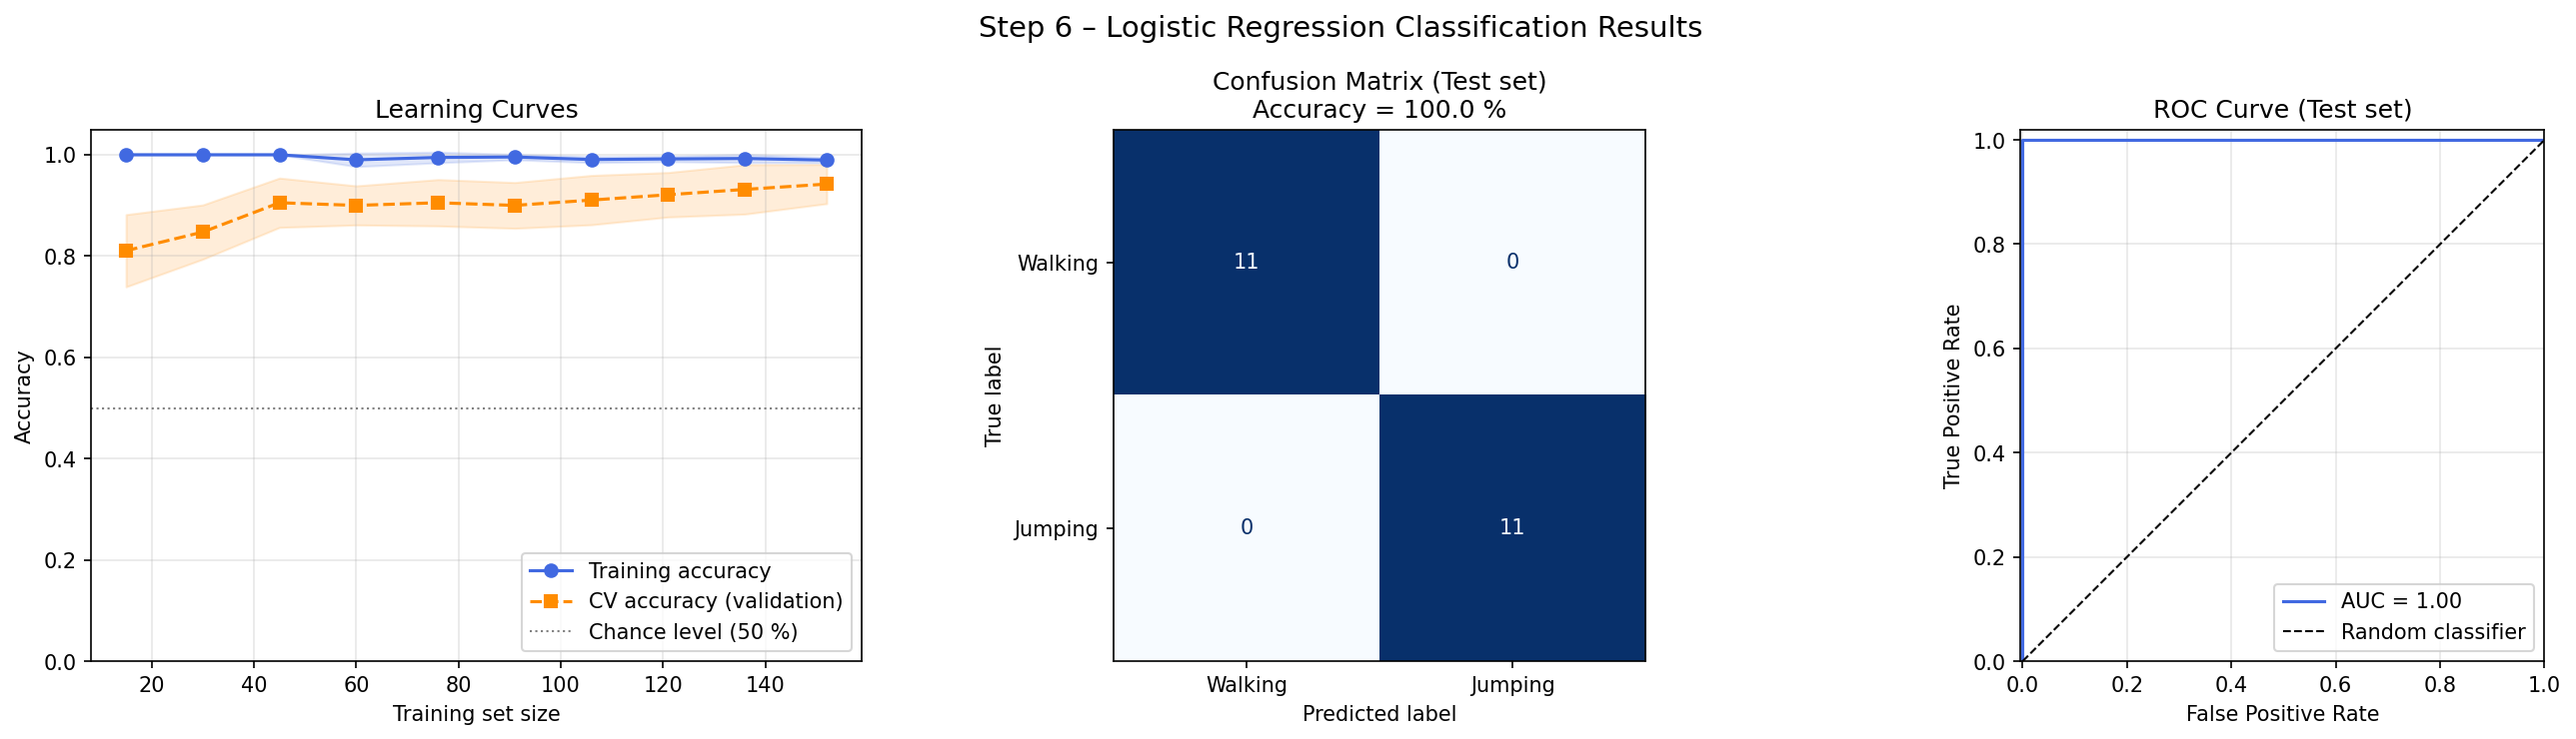
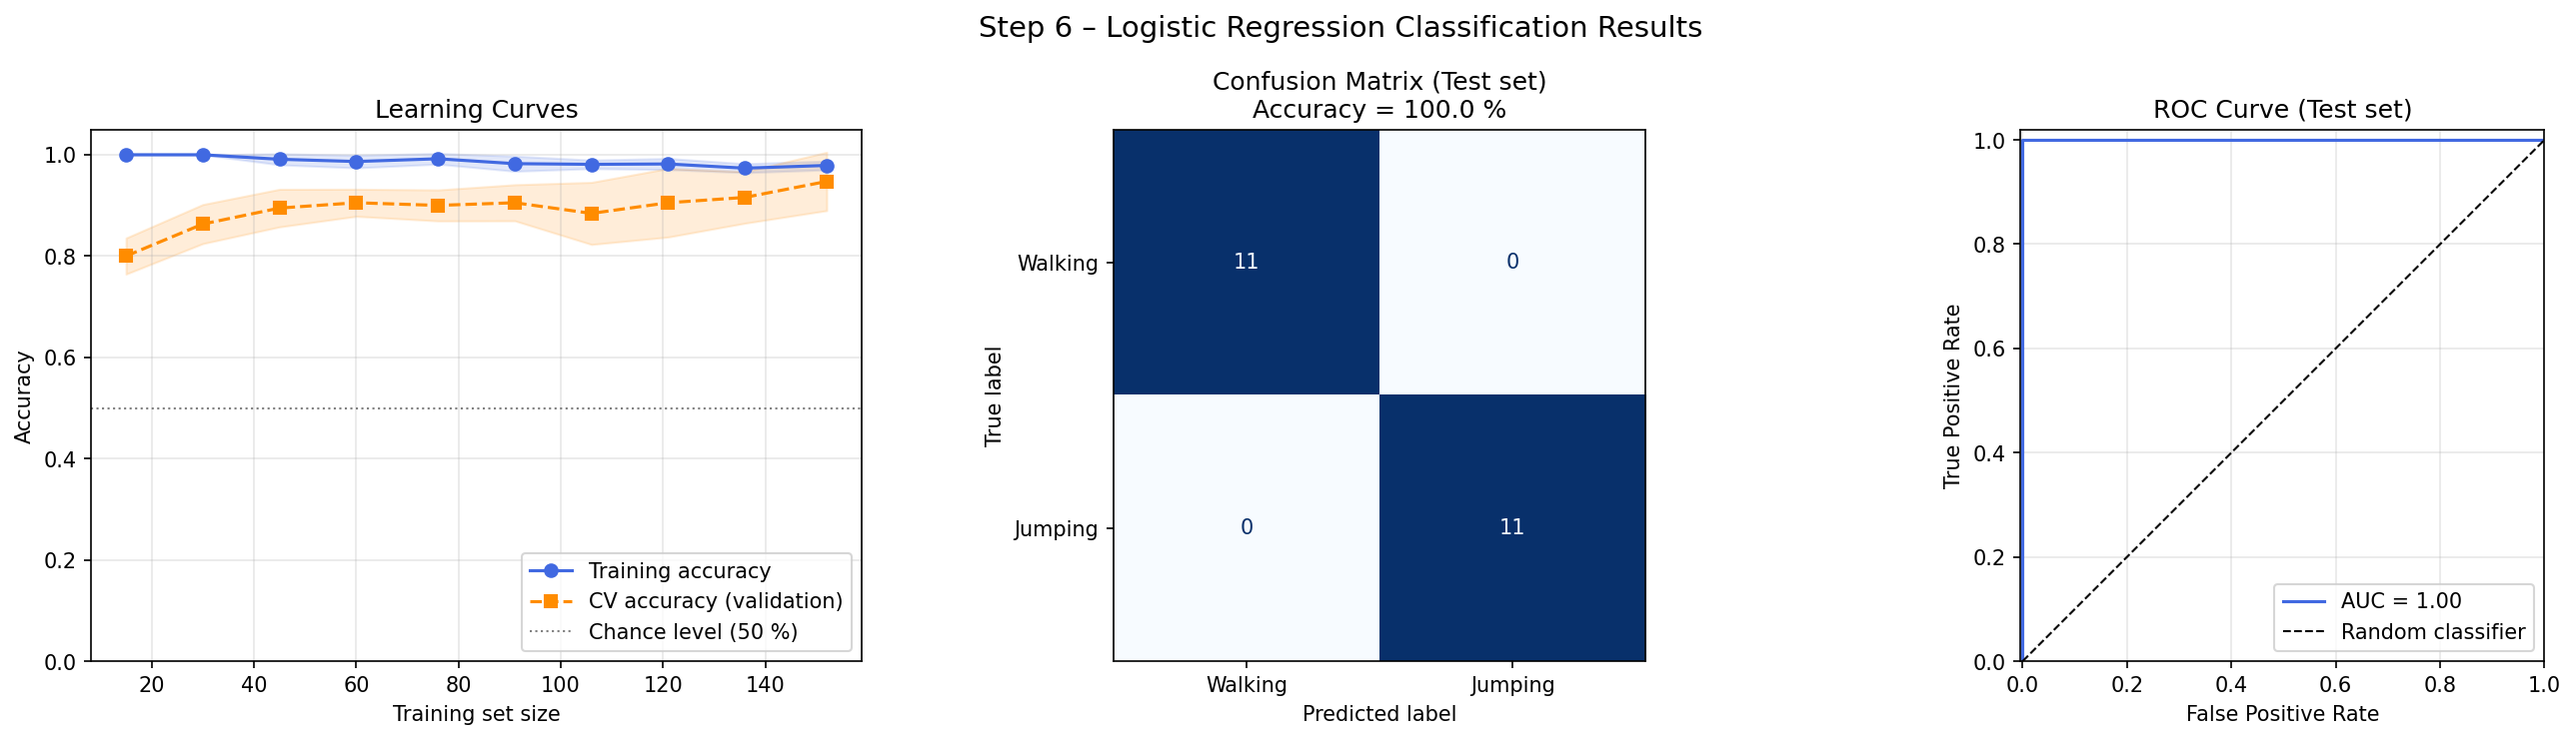
Fixed regression model by not including absolute acc in training

Changed region(s): [[0.031, 0.1865, 0.3415, 0.4041]]

diff --git a/featureExtraction.py b/featureExtraction.py
@@ -1,7 +1,9 @@
 import pandas as pd
 import numpy as np
 
-# Extracts 10+ features from an inputted data-frame
+## Z-score normalization is performed in the logisticRegression file, using standardScalar()
+
+# Extracts 10+ features from x, y, and z accelerations from the inputted Dataframe
 # Treats the inputted df as a single window to extract data from
 # features extracted: max, min, range, mean, median, variance, skewness, kurtosis, std, mode
 def extract_features(input_df):
@@ -9,22 +11,18 @@ def extract_features(input_df):
         'Linear Acceleration x (m/s^2)',
         'Linear Acceleration y (m/s^2)',
         'Linear Acceleration z (m/s^2)',
-        'Absolute acceleration (m/s^2)'
     ]
 
     x_labels = ['x: max', 'x: min', 'x: range', 'x: mean', 'x: median',
               'x: var', 'x: skew', 'x: kurt', 'x: std', 'x: mode']
 
-    y_labels = [ 'y: max', 'y: min', 'y: range', 'y: mean', 'y: median',
+    y_labels = ['y: max', 'y: min', 'y: range', 'y: mean', 'y: median',
               'y: var', 'y: skew', 'y: kurt', 'y: std', 'y: mode']
 
     z_labels = ['z: max', 'z: min', 'z: range', 'z: mean', 'z: median',
               'z: var', 'z: skew', 'z: kurt', 'z: std', 'z: mode']
 
-    abs_labels = ['abs: max', 'abs: min', 'abs: range', 'abs mean', 'abs: median',
-              'abs: var', 'abs: skew', 'abs: kurt', 'abs: std', 'abs: mode']
-
-    labels = x_labels + y_labels + z_labels + abs_labels
+    labels = x_labels + y_labels + z_labels
 
     # input_df['column_name'].mean() is an example of how to get each feature for this part
     features = []
@@ -49,8 +47,8 @@ def extract_features(input_df):
 
     return feature_df
 
-# If there are at least 4 seconds of data remaining after the final full 5-second window,
-# Then saves one last window.
+# Segments the dataframe int ~5-second windows. If there are at least 4 seconds of data remaining
+# after the ~5-second windows,Then saves one last window (between 3.75 and 4.75 seconds long)
 def segment_dataframe(df):
     times = df.iloc[:, 0].values
     sample_period = float(np.median(np.diff(times)))
@@ -65,7 +63,7 @@ def segment_dataframe(df):
         end = start + samples_per_window
         windows.append(df.iloc[start:end].reset_index(drop=True))
 
-    ## Check if the remaining samples form at least a 4-second window
+    # Check if the remaining samples form at least a 4-second window
     remainder_start = n_complete * samples_per_window
     remainder = df.iloc[remainder_start:]
     if len(remainder) >= min_samples:

diff --git a/logisticRegression.py b/logisticRegression.py
@@ -49,14 +49,18 @@ def load_windows_from_hdf5(hdf5_path, split='Train'):
             for window_key in label_group:
                 raw = label_group[window_key][:]  # numpy array
 
-                # Shape handling – expect (n_samples, 4 or 5)
-                if raw.ndim == 2 and raw.shape[1] == 5:
-                    raw = raw[:, :4]          # drop time column if present
-                elif raw.ndim == 2 and raw.shape[0] == 5:
-                    raw = raw[:4, :]
+                # Normalise to (n_samples, n_cols) layout first
+                if raw.ndim == 2 and raw.shape[0] < raw.shape[1]:
+                    raw = raw.T               # → (n_samples, n_cols)
 
-                if raw.ndim == 2 and raw.shape[0] == 4:
-                    raw = raw.T               # → (n_samples, 4)
+                # Strip time column, keep all 4 acc columns (x, y, z, abs)
+                n_cols = raw.shape[1]
+                if n_cols == 5:
+                    raw = raw[:, 1:5]         # drop time → keep x y z abs
+                elif n_cols == 4:
+                    pass                      # already x y z abs
+                else:
+                    raise ValueError(f'Unexpected number of columns: {n_cols}')
 
                 # DataFrame with ACC_COLS as index so extract_features can use .loc
                 window_df = pd.DataFrame(
@@ -64,7 +68,7 @@ def load_windows_from_hdf5(hdf5_path, split='Train'):
                     index=ACC_COLS,
                 )
 
-                feat_row = extract_features(window_df)   # (1, 40)
+                feat_row = extract_features(window_df)   # (1, n_features)
                 x_list.append(feat_row.values[0])
                 y_list.append(label_int)
 
@@ -170,7 +174,7 @@ def train_and_save_model():
     plt.savefig('step6_results.png', dpi=150, bbox_inches='tight')
     plt.show()
 
-    # ── Save model ─────────────────────────────────────────────────────────
+    # Save model
     joblib.dump(clf, MODEL_PATH)
     print(f'\nModel saved to "{MODEL_PATH}"')
 
